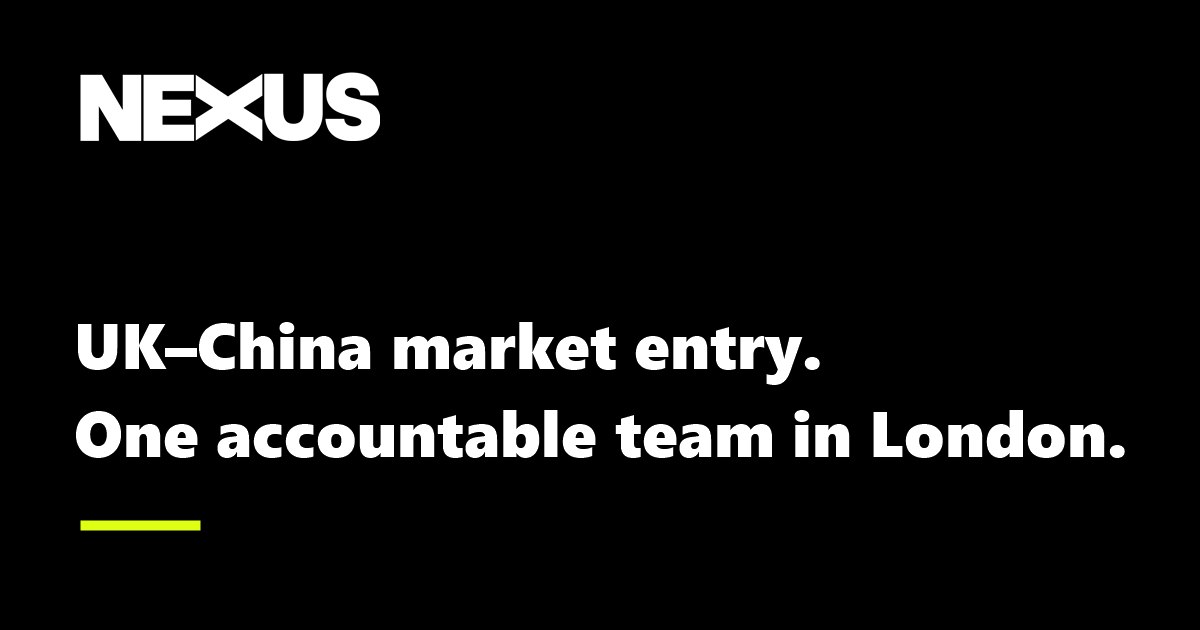
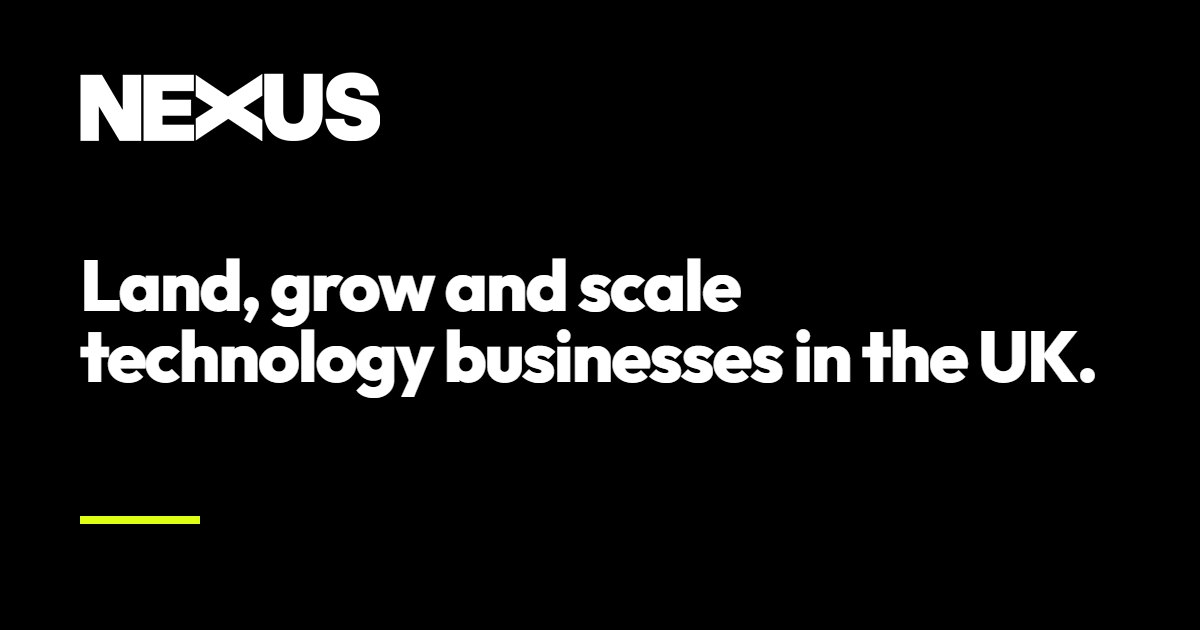
Use the client's wording on About and Asia corridor, and his headline on the share image

Changed region(s): [[0.0617, 0.3921, 0.925, 0.6333], [0.0617, 0.6333, 0.9558, 0.7238], [0.0617, 0.8143, 0.185, 0.8444]]

diff --git a/about.html b/about.html
@@ -14,12 +14,12 @@
 <meta property="og:image" content="https://nexuscreativehq.com/assets/img/og-default.jpg">
 <meta property="og:image:width" content="1200">
 <meta property="og:image:height" content="630">
-<meta property="og:image:alt" content="NEXUS. UK–China market entry. One accountable team in London.">
+<meta property="og:image:alt" content="NEXUS. Land, grow and scale technology businesses in the UK.">
 <meta name="twitter:card" content="summary_large_image">
 <meta name="twitter:title" content="About NEXUS Creative HQ: Team and Partners">
 <meta name="twitter:description" content="NEXUS Creative HQ is a London-based operational partner for UK–China market entry and scale-up support. Meet the team and our partner network.">
 <meta name="twitter:image" content="https://nexuscreativehq.com/assets/img/og-default.jpg">
-<meta name="twitter:image:alt" content="NEXUS. UK–China market entry. One accountable team in London.">
+<meta name="twitter:image:alt" content="NEXUS. Land, grow and scale technology businesses in the UK.">
 <link rel="preload" href="assets/fonts/Outfit-800.woff2" as="font" type="font/woff2" crossorigin>
 <link rel="preload" href="assets/fonts/GeneralSans-Regular.woff2" as="font" type="font/woff2" crossorigin>
 <link rel="stylesheet" href="assets/css/site.css">
@@ -178,7 +178,7 @@
   <div class="wrap">
     <nav class="crumb" aria-label="Breadcrumb"><ol><li><a href="index.html">Home</a></li><li aria-current="page">About</li></ol></nav>
     <p class="hero-eyebrow">About NEXUS Creative HQ</p>
-    <h1 id="hero-title" class="t-display">One accountable team in London.</h1>
+    <h1 id="hero-title" class="t-display">One accountable team in the UK.</h1>
     <div class="hero-grid">
       <div class="hero-copy">
         <p class="lede"><b>NEXUS helps technology businesses land, grow and scale in the UK, with China as its flagship corridor.</b></p>

diff --git a/asia-corridor.html b/asia-corridor.html
@@ -14,12 +14,12 @@
 <meta property="og:image" content="https://nexuscreativehq.com/assets/img/og-default.jpg">
 <meta property="og:image:width" content="1200">
 <meta property="og:image:height" content="630">
-<meta property="og:image:alt" content="NEXUS. UK–China market entry. One accountable team in London.">
+<meta property="og:image:alt" content="NEXUS. Land, grow and scale technology businesses in the UK.">
 <meta name="twitter:card" content="summary_large_image">
 <meta name="twitter:title" content="UK and Asia innovation corridor, led by China | NEXUS">
 <meta name="twitter:description" content="Our working corridor between the UK and Asia, led by China, with Hong Kong as our gateway, partners on the ground and 2027 delegations.">
 <meta name="twitter:image" content="https://nexuscreativehq.com/assets/img/og-default.jpg">
-<meta name="twitter:image:alt" content="NEXUS. UK–China market entry. One accountable team in London.">
+<meta name="twitter:image:alt" content="NEXUS. Land, grow and scale technology businesses in the UK.">
 <link rel="preload" href="assets/fonts/Outfit-800.woff2" as="font" type="font/woff2" crossorigin>
 <link rel="preload" href="assets/fonts/GeneralSans-Regular.woff2" as="font" type="font/woff2" crossorigin>
 <link rel="stylesheet" href="assets/css/site.css">
@@ -165,7 +165,7 @@
   <div class="wrap">
     <div class="sec-head">
       <h2 id="partners-title" class="t-h2">Our partners across Asia</h2>
-      <div><p class="lede">Partners on the ground in China and Hong Kong, working with us in both directions.</p></div>
+      <div><p class="lede">Partners on the ground in China, with Hong Kong as our gateway to the wider region.</p></div>
     </div>
     <div class="cols-3">
       <article class="card">

diff --git a/index.html b/index.html
@@ -14,12 +14,12 @@
 <meta property="og:image" content="https://nexuscreativehq.com/assets/img/og-default.jpg">
 <meta property="og:image:width" content="1200">
 <meta property="og:image:height" content="630">
-<meta property="og:image:alt" content="NEXUS. UK–China market entry. One accountable team in London.">
+<meta property="og:image:alt" content="NEXUS. Land, grow and scale technology businesses in the UK.">
 <meta name="twitter:card" content="summary_large_image">
 <meta name="twitter:title" content="NEXUS | Land, grow and scale technology businesses in the UK">
 <meta name="twitter:description" content="NEXUS helps international technology companies, the institutions behind them and UK scale-ups land, grow and scale in the UK, with China as our flagship corridor.">
 <meta name="twitter:image" content="https://nexuscreativehq.com/assets/img/og-default.jpg">
-<meta name="twitter:image:alt" content="NEXUS. UK–China market entry. One accountable team in London.">
+<meta name="twitter:image:alt" content="NEXUS. Land, grow and scale technology businesses in the UK.">
 <link rel="preload" href="assets/fonts/Outfit-800.woff2" as="font" type="font/woff2" crossorigin>
 <link rel="preload" href="assets/fonts/GeneralSans-Regular.woff2" as="font" type="font/woff2" crossorigin>
 <link rel="stylesheet" href="assets/css/site.css">

diff --git a/results-case-5.html b/results-case-5.html
@@ -14,12 +14,12 @@
 <meta property="og:image" content="https://nexuscreativehq.com/assets/img/og-default.jpg">
 <meta property="og:image:width" content="1200">
 <meta property="og:image:height" content="630">
-<meta property="og:image:alt" content="NEXUS. UK–China market entry. One accountable team in London.">
+<meta property="og:image:alt" content="NEXUS. Land, grow and scale technology businesses in the UK.">
 <meta name="twitter:card" content="summary_large_image">
 <meta name="twitter:title" content="[CreaTech client] Case Study | NEXUS">
 <meta name="twitter:description" content="How NEXUS helped [CreaTech client] move from a founder-led consultancy to [CreaTech client], a live AI platform with early revenue and a UK patent application in progress.">
 <meta name="twitter:image" content="https://nexuscreativehq.com/assets/img/og-default.jpg">
-<meta name="twitter:image:alt" content="NEXUS. UK–China market entry. One accountable team in London.">
+<meta name="twitter:image:alt" content="NEXUS. Land, grow and scale technology businesses in the UK.">
 <link rel="preload" href="assets/fonts/Outfit-800.woff2" as="font" type="font/woff2" crossorigin>
 <link rel="preload" href="assets/fonts/GeneralSans-Regular.woff2" as="font" type="font/woff2" crossorigin>
 <link rel="stylesheet" href="assets/css/site.css">

diff --git a/uk-scale-ups.html b/uk-scale-ups.html
@@ -14,12 +14,12 @@
 <meta property="og:image" content="https://nexuscreativehq.com/assets/img/og-default.jpg">
 <meta property="og:image:width" content="1200">
 <meta property="og:image:height" content="630">
-<meta property="og:image:alt" content="NEXUS. UK–China market entry. One accountable team in London.">
+<meta property="og:image:alt" content="NEXUS. Land, grow and scale technology businesses in the UK.">
 <meta name="twitter:card" content="summary_large_image">
 <meta name="twitter:title" content="Growth diagnostic for UK tech scale-ups | NEXUS">
 <meta name="twitter:description" content="A focused growth diagnostic, then partner-delivered projects in go-to-market, investment readiness, AI adoption and tax. One contact throughout.">
 <meta name="twitter:image" content="https://nexuscreativehq.com/assets/img/og-default.jpg">
-<meta name="twitter:image:alt" content="NEXUS. UK–China market entry. One accountable team in London.">
+<meta name="twitter:image:alt" content="NEXUS. Land, grow and scale technology businesses in the UK.">
 <link rel="preload" href="assets/fonts/Outfit-800.woff2" as="font" type="font/woff2" crossorigin>
 <link rel="preload" href="assets/fonts/GeneralSans-Regular.woff2" as="font" type="font/woff2" crossorigin>
 <link rel="stylesheet" href="assets/css/site.css">

diff --git a/results-case-4.html b/results-case-4.html
@@ -14,12 +14,12 @@
 <meta property="og:image" content="https://nexuscreativehq.com/assets/img/og-default.jpg">
 <meta property="og:image:width" content="1200">
 <meta property="og:image:height" content="630">
-<meta property="og:image:alt" content="NEXUS. UK–China market entry. One accountable team in London.">
+<meta property="og:image:alt" content="NEXUS. Land, grow and scale technology businesses in the UK.">
 <meta name="twitter:card" content="summary_large_image">
 <meta name="twitter:title" content="[AI software client] Case Study | NEXUS">
 <meta name="twitter:description" content="How NEXUS helped [AI software client] grow from concept to a defined family of AI-native tools for UK companies, with a UK patent application filed.">
 <meta name="twitter:image" content="https://nexuscreativehq.com/assets/img/og-default.jpg">
-<meta name="twitter:image:alt" content="NEXUS. UK–China market entry. One accountable team in London.">
+<meta name="twitter:image:alt" content="NEXUS. Land, grow and scale technology businesses in the UK.">
 <link rel="preload" href="assets/fonts/Outfit-800.woff2" as="font" type="font/woff2" crossorigin>
 <link rel="preload" href="assets/fonts/GeneralSans-Regular.woff2" as="font" type="font/woff2" crossorigin>
 <link rel="stylesheet" href="assets/css/site.css">

diff --git a/international-companies.html b/international-companies.html
@@ -14,12 +14,12 @@
 <meta property="og:image" content="https://nexuscreativehq.com/assets/img/og-default.jpg">
 <meta property="og:image:width" content="1200">
 <meta property="og:image:height" content="630">
-<meta property="og:image:alt" content="NEXUS. UK–China market entry. One accountable team in London.">
+<meta property="og:image:alt" content="NEXUS. Land, grow and scale technology businesses in the UK.">
 <meta name="twitter:card" content="summary_large_image">
 <meta name="twitter:title" content="UK market entry for technology companies | NEXUS">
 <meta name="twitter:description" content="Enter the UK with a team on the ground: market-entry diagnostic, soft landing support, market intelligence and vetted specialist partners.">
 <meta name="twitter:image" content="https://nexuscreativehq.com/assets/img/og-default.jpg">
-<meta name="twitter:image:alt" content="NEXUS. UK–China market entry. One accountable team in London.">
+<meta name="twitter:image:alt" content="NEXUS. Land, grow and scale technology businesses in the UK.">
 <link rel="preload" href="assets/fonts/Outfit-800.woff2" as="font" type="font/woff2" crossorigin>
 <link rel="preload" href="assets/fonts/GeneralSans-Regular.woff2" as="font" type="font/woff2" crossorigin>
 <link rel="stylesheet" href="assets/css/site.css">

diff --git a/results-case-3.html b/results-case-3.html
@@ -14,12 +14,12 @@
 <meta property="og:image" content="https://nexuscreativehq.com/assets/img/og-default.jpg">
 <meta property="og:image:width" content="1200">
 <meta property="og:image:height" content="630">
-<meta property="og:image:alt" content="NEXUS. UK–China market entry. One accountable team in London.">
+<meta property="og:image:alt" content="NEXUS. Land, grow and scale technology businesses in the UK.">
 <meta name="twitter:card" content="summary_large_image">
 <meta name="twitter:title" content="[AI compute client] Case Study | NEXUS">
 <meta name="twitter:description" content="How NEXUS helped [AI compute client] establish itself in the UK and build a UK and Asia research consortium for its private AI compute architecture.">
 <meta name="twitter:image" content="https://nexuscreativehq.com/assets/img/og-default.jpg">
-<meta name="twitter:image:alt" content="NEXUS. UK–China market entry. One accountable team in London.">
+<meta name="twitter:image:alt" content="NEXUS. Land, grow and scale technology businesses in the UK.">
 <link rel="preload" href="assets/fonts/Outfit-800.woff2" as="font" type="font/woff2" crossorigin>
 <link rel="preload" href="assets/fonts/GeneralSans-Regular.woff2" as="font" type="font/woff2" crossorigin>
 <link rel="stylesheet" href="assets/css/site.css">

diff --git a/endorsing-role.html b/endorsing-role.html
@@ -26,12 +26,12 @@
 <meta property="og:image" content="https://nexuscreativehq.com/assets/img/og-default.jpg">
 <meta property="og:image:width" content="1200">
 <meta property="og:image:height" content="630">
-<meta property="og:image:alt" content="NEXUS. UK–China market entry. One accountable team in London.">
+<meta property="og:image:alt" content="NEXUS. Land, grow and scale technology businesses in the UK.">
 <meta name="twitter:card" content="summary_large_image">
 <meta name="twitter:title" content="Our Innovator Founder Endorsing Role | NEXUS">
 <meta name="twitter:description" content="How NEXUS reviews Innovator Founder applications as a consortium partner of UK Endorsing Services, separately from our commercial services.">
 <meta name="twitter:image" content="https://nexuscreativehq.com/assets/img/og-default.jpg">
-<meta name="twitter:image:alt" content="NEXUS. UK–China market entry. One accountable team in London.">
+<meta name="twitter:image:alt" content="NEXUS. Land, grow and scale technology businesses in the UK.">
 <link rel="preload" href="assets/fonts/Outfit-800.woff2" as="font" type="font/woff2" crossorigin>
 <link rel="preload" href="assets/fonts/GeneralSans-Regular.woff2" as="font" type="font/woff2" crossorigin>
 <link rel="stylesheet" href="assets/css/site.css">

diff --git a/results-case-2.html b/results-case-2.html
@@ -14,12 +14,12 @@
 <meta property="og:image" content="https://nexuscreativehq.com/assets/img/og-default.jpg">
 <meta property="og:image:width" content="1200">
 <meta property="og:image:height" content="630">
-<meta property="og:image:alt" content="NEXUS. UK–China market entry. One accountable team in London.">
+<meta property="og:image:alt" content="NEXUS. Land, grow and scale technology businesses in the UK.">
 <meta name="twitter:card" content="summary_large_image">
 <meta name="twitter:title" content="[Robotics client] Case Study | NEXUS">
 <meta name="twitter:description" content="How NEXUS helped [Robotics client] move from an early prototype with no customers to a customer-funded proof of concept and a follow-on programme.">
 <meta name="twitter:image" content="https://nexuscreativehq.com/assets/img/og-default.jpg">
-<meta name="twitter:image:alt" content="NEXUS. UK–China market entry. One accountable team in London.">
+<meta name="twitter:image:alt" content="NEXUS. Land, grow and scale technology businesses in the UK.">
 <link rel="preload" href="assets/fonts/Outfit-800.woff2" as="font" type="font/woff2" crossorigin>
 <link rel="preload" href="assets/fonts/GeneralSans-Regular.woff2" as="font" type="font/woff2" crossorigin>
 <link rel="stylesheet" href="assets/css/site.css">

diff --git a/partner-with-nexus.html b/partner-with-nexus.html
@@ -14,12 +14,12 @@
 <meta property="og:image" content="https://nexuscreativehq.com/assets/img/og-default.jpg">
 <meta property="og:image:width" content="1200">
 <meta property="og:image:height" content="630">
-<meta property="og:image:alt" content="NEXUS. UK–China market entry. One accountable team in London.">
+<meta property="og:image:alt" content="NEXUS. Land, grow and scale technology businesses in the UK.">
 <meta name="twitter:card" content="summary_large_image">
 <meta name="twitter:title" content="Sponsorship and referral partnerships | NEXUS">
 <meta name="twitter:description" content="Meet international founders, UK scale-ups and innovation institutions through NEXUS sessions, the Global Innovator Awards and referrals.">
 <meta name="twitter:image" content="https://nexuscreativehq.com/assets/img/og-default.jpg">
-<meta name="twitter:image:alt" content="NEXUS. UK–China market entry. One accountable team in London.">
+<meta name="twitter:image:alt" content="NEXUS. Land, grow and scale technology businesses in the UK.">
 <link rel="preload" href="assets/fonts/Outfit-800.woff2" as="font" type="font/woff2" crossorigin>
 <link rel="preload" href="assets/fonts/GeneralSans-Regular.woff2" as="font" type="font/woff2" crossorigin>
 <link rel="stylesheet" href="assets/css/site.css">

diff --git a/results-case-7.html b/results-case-7.html
@@ -14,12 +14,12 @@
 <meta property="og:image" content="https://nexuscreativehq.com/assets/img/og-default.jpg">
 <meta property="og:image:width" content="1200">
 <meta property="og:image:height" content="630">
-<meta property="og:image:alt" content="NEXUS. UK–China market entry. One accountable team in London.">
+<meta property="og:image:alt" content="NEXUS. Land, grow and scale technology businesses in the UK.">
 <meta name="twitter:card" content="summary_large_image">
 <meta name="twitter:title" content="[EdTech client] Case Study | NEXUS">
 <meta name="twitter:description" content="How NEXUS supported the founder of [EdTech client], a live, revenue-generating EdTech product helping children new to English thrive in UK schools.">
 <meta name="twitter:image" content="https://nexuscreativehq.com/assets/img/og-default.jpg">
-<meta name="twitter:image:alt" content="NEXUS. UK–China market entry. One accountable team in London.">
+<meta name="twitter:image:alt" content="NEXUS. Land, grow and scale technology businesses in the UK.">
 <link rel="preload" href="assets/fonts/Outfit-800.woff2" as="font" type="font/woff2" crossorigin>
 <link rel="preload" href="assets/fonts/GeneralSans-Regular.woff2" as="font" type="font/woff2" crossorigin>
 <link rel="stylesheet" href="assets/css/site.css">
